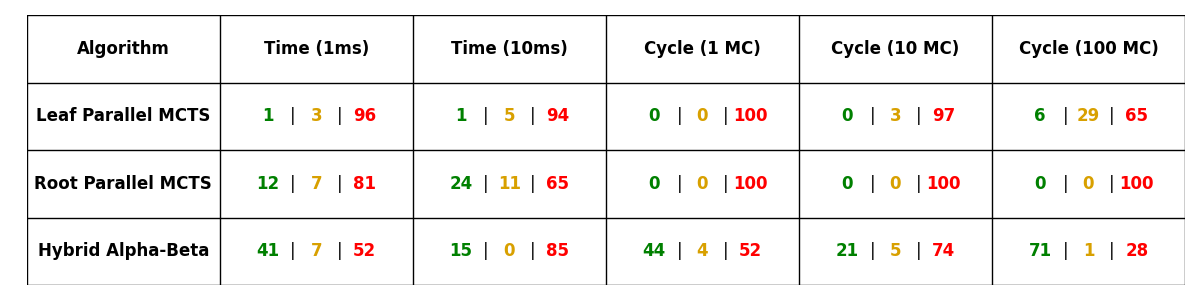
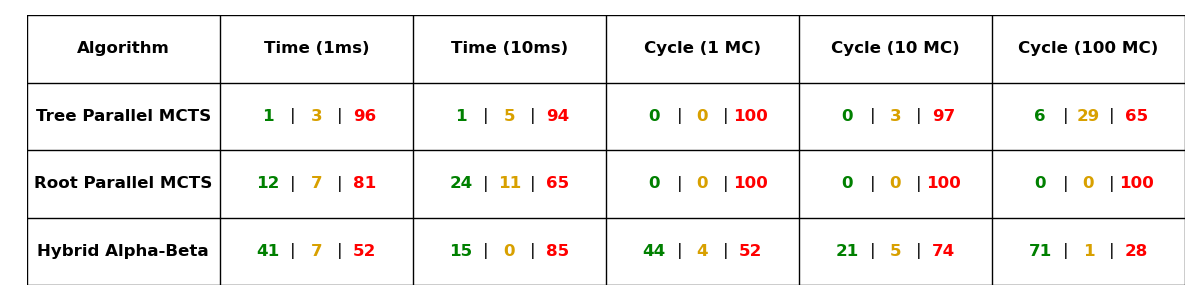
thread local node pools

diff --git a/src/standard/monte-carlo.cpp b/src/standard/monte-carlo.cpp
@@ -92,7 +92,86 @@ struct alignas(64) MCTSNode {
     }
 };
 
-static MCTSNode* tree_descend(MCTSNode* node, chess::Board& board) {
+struct NodePool {
+    static constexpr size_t CHUNK_SIZE = 1 << 16;
+
+    struct Chunk {
+        alignas(64) MCTSNode* data;
+        std::atomic<size_t> used;
+
+        Chunk() : used(0) {
+            // SAFE aligned allocation (C++-correct)
+            data = static_cast<MCTSNode*>(
+                ::operator new(
+                    CHUNK_SIZE * sizeof(MCTSNode),
+                    std::align_val_t(64)
+                )
+            );
+        }
+
+        ~Chunk() {
+            ::operator delete(
+                data,
+                std::align_val_t(64)
+            );
+        }
+    };
+
+    std::vector<Chunk*> chunks;
+    std::atomic<size_t> current{0};
+    std::mutex grow_mutex;
+
+    NodePool() {
+        chunks.reserve(32);
+        chunks.push_back(new Chunk());
+    }
+
+    MCTSNode* allocate(const chess::Board& b,
+                       chess::Move m,
+                       MCTSNode* parent)
+    {
+        size_t idx_chunk = current.load(std::memory_order_relaxed);
+        Chunk* c = chunks[idx_chunk];
+
+        // fast path: atomic bump inside chunk
+        size_t idx = c->used.fetch_add(1, std::memory_order_relaxed);
+
+        if (idx < CHUNK_SIZE) {
+            return new (&c->data[idx]) MCTSNode(b, m, parent);
+        }
+
+        // slow path: need new chunk
+        std::lock_guard<std::mutex> lock(grow_mutex);
+
+        idx_chunk = current.load(std::memory_order_relaxed);
+
+        if (idx_chunk + 1 >= chunks.size()) {
+            chunks.push_back(new Chunk());
+        }
+
+        current.store(idx_chunk + 1, std::memory_order_relaxed);
+        c = chunks[idx_chunk + 1];
+
+        size_t new_idx = c->used.fetch_add(1, std::memory_order_relaxed);
+
+        return new (&c->data[new_idx]) MCTSNode(b, m, parent);
+    }
+
+    void reset() {
+        for (Chunk* c : chunks) {
+            c->used.store(0, std::memory_order_relaxed);
+        }
+        current.store(0, std::memory_order_relaxed);
+    }
+
+    ~NodePool() {
+        for (Chunk* c : chunks) {
+            delete c;
+        }
+    }
+};
+
+static MCTSNode* tree_descend(MCTSNode* node, chess::Board& board, NodePool& pool) {
     while (true) {
         node->virtual_loss.fetch_add(1, std::memory_order_relaxed);
 
@@ -109,7 +188,7 @@ static MCTSNode* tree_descend(MCTSNode* node, chess::Board& board) {
         if (idx < node->untried_moves.size()) {
             chess::Move m = node->untried_moves[idx];
             board.makeMove(m);
-            MCTSNode* child = new MCTSNode(board, m, node);
+            MCTSNode* child = pool.allocate(board, m, node);
             node->children[idx] = child;
             if (idx + 1 == node->untried_moves.size()) {
                 node->is_stable.store(true, std::memory_order_release);
@@ -132,22 +211,22 @@ static void backprop(MCTSNode* node, double result) {
     }
 }
 
-static void run_simulations(MCTSNode& root, const chess::Board& board, int max_depth, int num_simulations) {
+static void run_simulations(MCTSNode& root, const chess::Board& board, int max_depth, int num_simulations, NodePool& pool) {
     #pragma omp parallel for schedule(static, 16)
     for (int i = 0; i < num_simulations; ++i) {
         chess::Board local_board = board;
-        MCTSNode* leaf = tree_descend(&root, local_board);
+        MCTSNode* leaf = tree_descend(&root, local_board, pool);
         double result = rollout(local_board, max_depth);
         backprop(leaf, result);
     }
 }
 
-static void run_simulations_persistent(MCTSNode& root, const chess::Board& board, int max_depth) {
+static void run_simulations_persistent(MCTSNode& root, const chess::Board& board, int max_depth, NodePool& pool) {
     #pragma omp parallel
     {
         while (!exceeded_budget.load(std::memory_order_relaxed)) {
             chess::Board local_board = board;
-            MCTSNode* leaf = tree_descend(&root, local_board);
+            MCTSNode* leaf = tree_descend(&root, local_board, pool);
             double result = rollout(local_board, max_depth);
             backprop(leaf, result);
         }
@@ -178,7 +257,8 @@ static chess::Move pick_best(MCTSNode& root) {
 
 chess::Move monte_carlo_search(const chess::Board& board, int max_depth, int num_simulations) {
     MCTSNode root(board);
-    run_simulations(root, board, max_depth, num_simulations);
+    static thread_local NodePool pool;
+    run_simulations(root, board, max_depth, num_simulations, pool);
     return pick_best(root);
 }
 
@@ -189,8 +269,10 @@ int best_move_monte_carlo_depth(const char* fen, int depth, char* out_move, int 
     chess::movegen::legalmoves(moves, board);
     if (moves.empty()) return -1;
 
+    static thread_local NodePool pool;
     MCTSNode root(board);
-    run_simulations(root, board, depth, 100000);
+
+    run_simulations(root, board, depth, 100000, pool);
 
     chess::Move best = pick_best(root);
     std::strncpy(out_move, chess::uci::moveToUci(best).c_str(), out_len);
@@ -216,8 +298,9 @@ int best_move_monte_carlo_time(const char* fen, int time_ms, char* out_move, int
     });
 
     constexpr int SEARCH_DEPTH = 6;
+    static thread_local NodePool pool;
     MCTSNode root(board);
-    run_simulations_persistent(root, board, SEARCH_DEPTH);
+    run_simulations_persistent(root, board, SEARCH_DEPTH, pool);
     timer.join();
 
     chess::Move best = pick_best(root);
@@ -248,9 +331,10 @@ int best_move_monte_carlo_cycles(const char* fen, int megacycle_budget, char* ou
         exceeded_budget = true;
     });
 
-    constexpr int SEARCH_DEPTH    = 6;
+    constexpr int SEARCH_DEPTH = 6;
     constexpr int PAPI_CHECK_SIMS = 64;
 
+    static thread_local NodePool pool;
     MCTSNode root(board);
 
     #pragma omp parallel
@@ -275,7 +359,7 @@ int best_move_monte_carlo_cycles(const char* fen, int megacycle_budget, char* ou
 
         while (!exceeded_budget.load(std::memory_order_relaxed)) {
             chess::Board local_board = board;
-            MCTSNode* leaf = tree_descend(&root, local_board);
+            MCTSNode* leaf = tree_descend(&root, local_board, pool);
             double result  = rollout(local_board, SEARCH_DEPTH);
             backprop(leaf, result);
 

diff --git a/src/graphs/parallelism_scaling.py b/src/graphs/parallelism_scaling.py
@@ -5,7 +5,7 @@ import seaborn as sns
 import re
 
 data = """
-Here is my leaf parallel algorithm:
+Here is my tree parallel algorithm:
 
 === Depth 1 ===
 Phase          Single (1T) avg ± std      Multi (256T) avg ± std   Speedup
@@ -88,8 +88,8 @@ current_depth = None
 for line in data.split('\n'):
     line = line.strip()
     # Identify the algorithm type
-    if 'leaf parallel' in line.lower():
-        current_algo = 'Leaf Parallel'
+    if 'tree parallel' in line.lower():
+        current_algo = 'Tree Parallel'
     elif 'root parallel' in line.lower():
         current_algo = 'Root Parallel'
     # Extract the depth using regex
@@ -128,16 +128,16 @@ df = pd.DataFrame(records)
 sns.set_theme(style="whitegrid")
 fig, axes = plt.subplots(1, 2, figsize=(16, 6))
 
-df_leaf = df[df['Algorithm'] == 'Leaf Parallel']
+df_tree = df[df['Algorithm'] == 'Tree Parallel']
 df_root = df[df['Algorithm'] == 'Root Parallel']
 
-# Leaf Parallel Subplot
+# Tree Parallel Subplot
 sns.lineplot(
-    data=df_leaf, x='Depth', y='Time (ms)', 
+    data=df_tree, x='Depth', y='Time (ms)', 
     hue='Thread Count', style='Phase', 
     markers=True, dashes=True, ax=axes[0]
 )
-axes[0].set_title('Leaf Parallel: Execution Time vs Depth')
+axes[0].set_title('Tree Parallel: Execution Time vs Depth')
 axes[0].set_xticks([1, 2, 3, 4, 5])
 axes[0].set_ylabel('Execution Time (ms)')
 

diff --git a/src/graphs/winrates.py b/src/graphs/winrates.py
@@ -1,7 +1,7 @@
 import matplotlib.pyplot as plt
 
 columns = ['Time (1ms)', 'Time (10ms)', 'Cycle (1 MC)', 'Cycle (10 MC)', 'Cycle (100 MC)']
-rows = ['Leaf Parallel MCTS', 'Root Parallel MCTS', 'Hybrid Alpha-Beta']
+rows = ['Tree Parallel MCTS', 'Root Parallel MCTS', 'Hybrid Alpha-Beta']
 data = [
     [ (1,3,96), (1,5,94), (0,0,100), (0,3,97), (6,29,65) ],
     [ (12,7,81), (24,11,65), (0,0,100), (0,0,100), (0,0,100) ],

diff --git a/src/graphs/parity.py b/src/graphs/parity.py
@@ -2,7 +2,7 @@ import matplotlib.pyplot as plt
 import numpy as np
 
 # Data extracted from the image
-algorithms = ['RP-100K', 'RP-1M', 'LP-100K']
+algorithms = ['RP-100K', 'RP-1M', 'TP-100K']
 wins = np.array([1, 10, 4])
 ties = np.array([5, 5, 6])
 losses = np.array([14, 5, 10])
